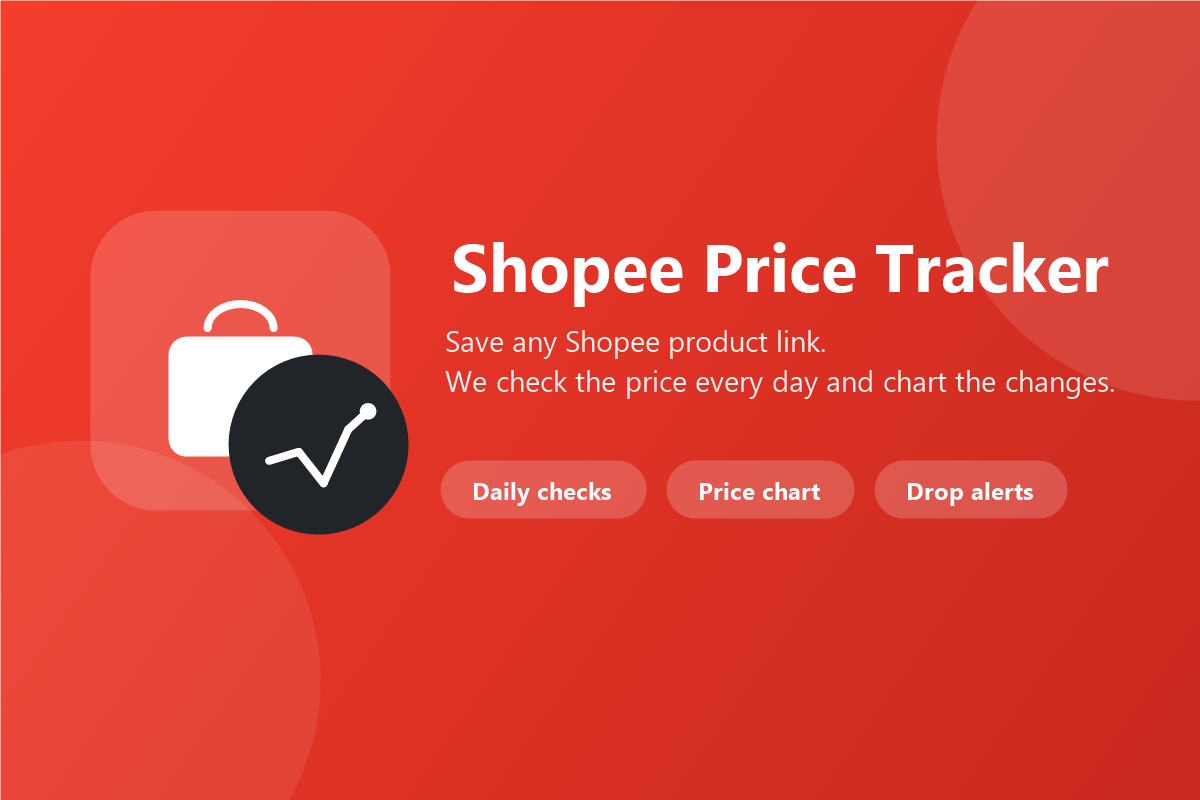
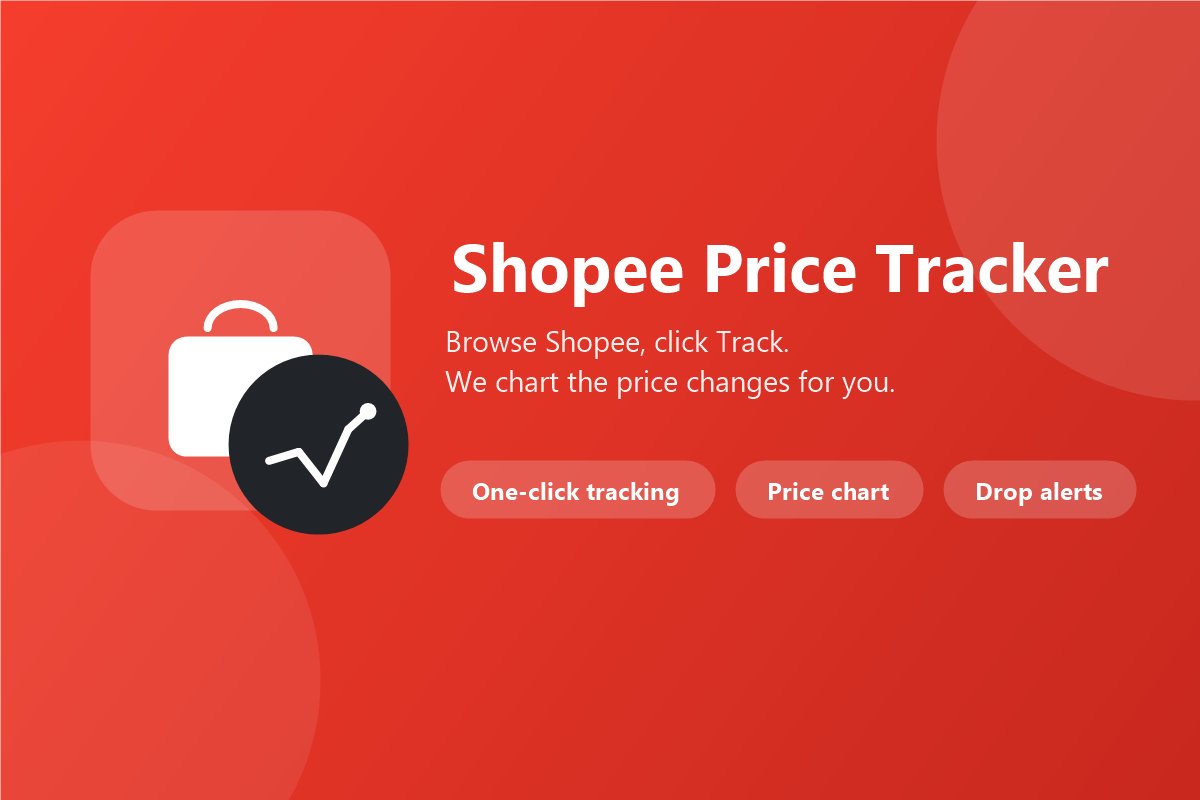
Add passive content-script price capture, the reliable path
Testing confirmed even a fully-focused, extension-opened tab still
gets blocked by Shopee's anti-bot check, while manual browsing to the
same link never does — pointing to behavioral bot detection that a
well-behaved extension shouldn't try to spoof. So instead of fetching
anything ourselves, content.js now reads the price already rendered
on a Shopee product page the user navigates to themselves (via
JSON-LD, then microdata, then visible ₫-text as fallbacks) and shows
a small "Track this price" button — no network request of our own.
Already-tracked products update silently on every visit.

The paste-a-link Add flow and daily background alarm check remain as
a best-effort fallback (background.js's fetchShopeeItem), documented
as unreliable. Verified the full pipeline (content script extraction
-> background storage -> popup rendering) against a mocked Shopee
page via Playwright route interception, since the real site blocks
this automated test environment regardless of technique.

Changed region(s): [[0.4008, 0.5625, 0.9558, 0.6562], [0.37, 0.4062, 0.925, 0.5]]

diff --git a/shopee-price-tracker/content.js b/shopee-price-tracker/content.js
@@ -1,0 +1,151 @@
+// Runs on shopee.vn pages. Every automated way we tried of fetching a price
+// ourselves (background fetch, hidden tab, minimized window, visible
+// unfocused window, even a fully-focused extension-opened tab) got blocked
+// by Shopee's anti-bot check — only a page the user genuinely navigated to
+// themselves gets through. So instead of fetching anything, this reads the
+// price that's already rendered on a product page you're actually looking
+// at, and offers a small button to start tracking it. No network requests
+// of our own — just reading the page, exactly like you would with your eyes.
+(() => {
+  function extractShopeeIds(href) {
+    let url;
+    try { url = new URL(href); } catch { return null; }
+    if (!/(^|\.)shopee\.vn$/.test(url.hostname)) return null;
+    let m = url.pathname.match(/-i\.(\d+)\.(\d+)(?:$|\/)/);
+    if (m) return { shopid: m[1], itemid: m[2] };
+    m = url.pathname.match(/\/product\/(\d+)\/(\d+)/);
+    if (m) return { shopid: m[1], itemid: m[2] };
+    return null;
+  }
+
+  const ids = extractShopeeIds(location.href);
+  if (!ids) return;
+
+  function readJsonLd() {
+    for (const script of document.querySelectorAll('script[type="application/ld+json"]')) {
+      let data;
+      try { data = JSON.parse(script.textContent); } catch { continue; }
+      for (const item of Array.isArray(data) ? data : [data]) {
+        if (!item || item['@type'] !== 'Product' || !item.offers) continue;
+        const offers = Array.isArray(item.offers) ? item.offers[0] : item.offers;
+        const price = Number(offers?.price ?? offers?.lowPrice);
+        if (item.name && price > 0) {
+          return {
+            name: item.name,
+            image: Array.isArray(item.image) ? item.image[0] : item.image,
+            price,
+            currency: offers?.priceCurrency || 'VND'
+          };
+        }
+      }
+    }
+    return null;
+  }
+
+  function readMicrodata() {
+    const scope = document.querySelector('[itemscope][itemtype*="schema.org/Product"]');
+    if (!scope) return null;
+    const nameEl = scope.querySelector('[itemprop="name"]');
+    const priceEl = scope.querySelector('[itemprop="price"]');
+    const imageEl = scope.querySelector('[itemprop="image"]');
+    const currencyEl = scope.querySelector('[itemprop="priceCurrency"]');
+    const price = priceEl ? Number(priceEl.getAttribute('content') || priceEl.textContent) : NaN;
+    const name = (nameEl?.getAttribute('content') || nameEl?.textContent || '').trim();
+    if (name && price > 0) {
+      return {
+        name,
+        image: imageEl?.getAttribute('content') || imageEl?.src || null,
+        price,
+        currency: currencyEl?.getAttribute('content') || currencyEl?.textContent || 'VND'
+      };
+    }
+    return null;
+  }
+
+  function readOgAndVisiblePrice() {
+    const ogTitle = document.querySelector('meta[property="og:title"]')?.content;
+    const ogImage = document.querySelector('meta[property="og:image"]')?.content;
+    if (!ogTitle) return null;
+
+    const priceRegex = /(?:₫\s?[\d.,]+|[\d.,]+\s?₫)/;
+    const walker = document.createTreeWalker(document.body, NodeFilter.SHOW_TEXT);
+    let node;
+    while ((node = walker.nextNode())) {
+      const text = node.textContent.trim();
+      if (!text || text.length > 40 || !priceRegex.test(text)) continue;
+      const raw = text.replace(/[₫\s]/g, '').replace(/\./g, '').replace(/,/g, '');
+      const price = Number(raw);
+      if (price > 0) return { name: ogTitle, image: ogImage || null, price, currency: 'VND' };
+    }
+    return null;
+  }
+
+  function extractProductInfo() {
+    return readJsonLd() || readMicrodata() || readOgAndVisiblePrice();
+  }
+
+  let badgeHost = null;
+
+  function ensureBadge() {
+    if (badgeHost) return badgeHost;
+    badgeHost = document.createElement('div');
+    badgeHost.id = '__shopee_price_tracker_badge__';
+    document.documentElement.appendChild(badgeHost);
+    return badgeHost;
+  }
+
+  function renderBadge(tracked, payload) {
+    const host = ensureBadge();
+    host.innerHTML = '';
+    const btn = document.createElement('button');
+    btn.id = '__shopee_price_tracker_btn__';
+
+    if (tracked) {
+      btn.textContent = '★ Price tracked';
+      btn.title = 'Open price history';
+      btn.addEventListener('click', () => {
+        chrome.runtime.sendMessage({ type: 'OPEN_PRODUCT_TAB', shopid: ids.shopid, itemid: ids.itemid });
+      });
+    } else {
+      btn.textContent = '☆ Track this price';
+      btn.title = "Start tracking this product's price";
+      btn.addEventListener('click', () => {
+        btn.disabled = true;
+        btn.textContent = 'Adding…';
+        chrome.runtime.sendMessage({ type: 'ADD_FROM_PAGE', info: payload }, res => {
+          if (res?.ok) renderBadge(true, payload);
+          else {
+            btn.disabled = false;
+            btn.textContent = '☆ Track this price';
+          }
+        });
+      });
+    }
+    host.appendChild(btn);
+  }
+
+  async function run() {
+    let info = null;
+    for (let i = 0; i < 10 && !info; i++) {
+      info = extractProductInfo();
+      if (!info) await new Promise(r => setTimeout(r, 500));
+    }
+    if (!info) return; // couldn't confidently read a price — stay silent, don't disrupt the page
+
+    const payload = {
+      shopid: ids.shopid,
+      itemid: ids.itemid,
+      link: location.href.split('?')[0],
+      name: info.name,
+      image: info.image,
+      price: info.price,
+      currency: info.currency
+    };
+
+    chrome.runtime.sendMessage({ type: 'PAGE_PRODUCT_SEEN', info: payload }, res => {
+      renderBadge(!!res?.tracked, payload);
+    });
+  }
+
+  run();
+})();

diff --git a/shopee-price-tracker/background.js b/shopee-price-tracker/background.js
@@ -177,6 +177,63 @@ async function clearDropFlag(id) {
   }
 }
 
+// --- passive content-script capture --------------------------------------
+//
+// content.js reads whatever price is already rendered on a Shopee product
+// page the user genuinely navigated to themselves — no fetch of our own,
+// so nothing here for Shopee's anti-bot check to catch. This is the
+// reliable path; fetchShopeeItem() above is the best-effort automated one.
+
+async function recordPageObservation(info, createIfMissing) {
+  const id = productKey(info.shopid, info.itemid);
+  const products = await getProducts();
+  const idx = products.findIndex(p => p.id === id);
+  const now = Date.now();
+
+  if (idx === -1) {
+    if (!createIfMissing) return { tracked: false, product: null };
+    const product = {
+      id,
+      shopid: info.shopid,
+      itemid: info.itemid,
+      link: info.link,
+      name: info.name,
+      image: info.image || null,
+      currency: info.currency || 'VND',
+      currentPrice: info.price,
+      priceBeforeDiscount: null,
+      stock: null,
+      itemStatus: null,
+      addedAt: now,
+      lastCheckedAt: now,
+      lastError: null,
+      hasNewDrop: false,
+      history: pushHistoryPoint([], info.price, now)
+    };
+    products.push(product);
+    await saveProducts(products);
+    return { tracked: true, product };
+  }
+
+  const previous = products[idx];
+  const dropped = typeof previous.currentPrice === 'number' && typeof info.price === 'number' && info.price < previous.currentPrice;
+  const updated = {
+    ...previous,
+    name: info.name || previous.name,
+    image: info.image || previous.image,
+    currentPrice: info.price,
+    lastCheckedAt: now,
+    lastError: null,
+    hasNewDrop: previous.hasNewDrop || dropped,
+    history: pushHistoryPoint(previous.history, info.price, now)
+  };
+  products[idx] = updated;
+  await saveProducts(products);
+  await updateBadge(products);
+  if (dropped) notifyDrops([updated]);
+  return { tracked: true, product: updated };
+}
+
 // --- checking -----------------------------------------------------------
 
 async function checkOneProduct(product, foreground = false) {
@@ -301,6 +358,22 @@ chrome.runtime.onMessage.addListener((message, _sender, sendResponse) => {
       }
       case 'CLEAR_DROP_FLAG': {
         await clearDropFlag(message.id);
+        sendResponse({ ok: true });
+        break;
+      }
+      case 'PAGE_PRODUCT_SEEN': {
+        const result = await recordPageObservation(message.info, false);
+        sendResponse({ ok: true, tracked: result.tracked });
+        break;
+      }
+      case 'ADD_FROM_PAGE': {
+        const result = await recordPageObservation(message.info, true);
+        sendResponse({ ok: true, product: result.product });
+        break;
+      }
+      case 'OPEN_PRODUCT_TAB': {
+        const id = productKey(message.shopid, message.itemid);
+        chrome.tabs.create({ url: chrome.runtime.getURL(`product.html?id=${encodeURIComponent(id)}`) });
         sendResponse({ ok: true });
         break;
       }

diff --git a/shopee-price-tracker/popup.html b/shopee-price-tracker/popup.html
@@ -15,11 +15,12 @@
   </header>
 
   <main>
+    <p class="hint hint-primary">Best way to add a product: just browse to it on Shopee — a "☆ Track this price" button appears on the page.</p>
     <form id="addForm" class="add-row">
-      <input id="linkInput" type="url" placeholder="Paste a Shopee product link…" required>
+      <input id="linkInput" type="url" placeholder="…or paste a Shopee product link" required>
       <button id="addBtn" class="primary" type="submit">Add</button>
     </form>
-    <p class="hint">Adding a product briefly opens its Shopee page in a new tab to read the price, then closes it.</p>
+    <p class="hint">This tries an automated fetch, which Shopee's anti-bot check may block — the button on the product page is more reliable.</p>
 
     <div class="list-hdr">
       <strong id="countLabel">0 products</strong>

diff --git a/shopee-price-tracker/content.css b/shopee-price-tracker/content.css
@@ -1,0 +1,26 @@
+#__shopee_price_tracker_badge__ {
+  all: initial;
+  position: fixed;
+  right: 16px;
+  bottom: 16px;
+  z-index: 2147483647;
+}
+
+#__shopee_price_tracker_btn__ {
+  display: flex;
+  align-items: center;
+  gap: 6px;
+  padding: 10px 16px;
+  border-radius: 999px;
+  border: none;
+  background: #ee4d2d;
+  color: #ffffff;
+  font-family: -apple-system, "Segoe UI", Roboto, Arial, sans-serif;
+  font-size: 13px;
+  font-weight: 600;
+  cursor: pointer;
+  box-shadow: 0 4px 14px rgba(0, 0, 0, 0.25);
+}
+
+#__shopee_price_tracker_btn__:hover { filter: brightness(1.05); }
+#__shopee_price_tracker_btn__:disabled { opacity: 0.7; cursor: default; }

diff --git a/shopee-price-tracker/popup.css b/shopee-price-tracker/popup.css
@@ -57,6 +57,7 @@ main { padding: 14px 16px 16px; }
   min-width: 0;
 }
 .hint { color: var(--muted); font-size: 11px; margin: 6px 0 0; line-height: 1.4; }
+.hint-primary { margin: 0 0 8px; }
 
 button {
   padding: 7px 12px;

diff --git a/shopee-price-tracker/README.md b/shopee-price-tracker/README.md
@@ -1,44 +1,51 @@
 # Shopee Price Tracker
 
-A Chrome extension that saves [Shopee](https://shopee.vn) product links and checks their price once a day, so you can see how a price has moved before you buy.
+A Chrome extension that tracks the price of [Shopee](https://shopee.vn) products you're interested in, so you can see how a price has moved before you buy.
 
 ## Features
 
-- Paste a Shopee product link on the "Add product" page (opened from the popup) to start tracking it — the extension reads the current name, image and price right away.
-- Runs a background check once a day (`chrome.alarms`) and records one price point per day, plus a "Check now" button for an on-demand refresh (all products from the popup, or a single one from its detail page).
-- Click any saved product to open its detail page: price, product image, a price-history line chart (drawn on `<canvas>`, no charting library), and a day-by-day log of price changes.
+- Browse to a Shopee product page and a small "☆ Track this price" button appears in the corner — click it to start tracking, no copy/paste needed.
+- Every time you're on a tracked product's page, its price is automatically refreshed from what's already on screen.
+- Click any saved product (from the popup) to open its detail page: price, product image, a price-history line chart (drawn on `<canvas>`, no charting library), and a day-by-day log of price changes.
 - Chrome notification when a tracked product's price drops, linking straight to that product's chart. Toolbar badge shows how many products have an unseen drop.
 - Remove a product any time from the popup list.
+- A "paste a link" fallback (Add, in the popup) and a best-effort daily background check also exist, but are less reliable — see "How it works".
 
 ## How it works
 
-- Shopee product pages embed a `shopid` and `itemid` in their URL (either `.../product-name-i.{shopid}.{itemid}` or `.../product/{shopid}/{itemid}`). The extension parses these out of the pasted link.
-- To fetch a price, it opens the actual product page in a tab and calls Shopee's own item endpoint (`/api/v4/item/get?itemid=..&shopid=..`) from *inside* that page's own JavaScript context, then closes the tab — rather than fetching it directly, which Shopee's anti-bot check reliably blocks (redirects to `shopee.vn/verify/traffic/error`) even with cookies attached, since it doesn't look like organic browsing.
-- Testing narrowed this down further: a hidden background tab, a minimized window, and even a visible-but-unfocused window all still got blocked the same way — only a genuinely focused tab (indistinguishable from clicking a link yourself) got through reliably. Because giving a tab real focus switches Chrome's active tab and that closes the small toolbar popup instantly, adding a product happens on its own full page (`add.html`, opened in a new tab from the popup) instead of inside the popup — a real page survives the focus switch, so the check can safely use a fully-focused tab. The same applies to "Check price now" on the product detail page. Bulk/background checks (the daily alarm, and "Check now" on the full list in the popup) can't safely steal focus like that without being disruptive, so they stay backgrounded and are best-effort only — they may get blocked more often than the two focused flows.
+Shopee has an aggressive anti-bot check, and testing during development ruled out every automated way of fetching a price ourselves: a direct `fetch()` from the background service worker, opening the product page in a hidden tab, a minimized window, a visible-but-unfocused window, and even a fully-focused tab opened by the extension (indistinguishable, to the eye, from clicking a link) — every one of those got blocked (redirected to `shopee.vn/verify/traffic/error`), while manually pasting the exact same link into a tab yourself always worked. That pattern points to behavioral bot detection (Shopee's cookies include what looks like a behavioral-analytics SDK) noticing that an extension-opened tab has no human interaction history leading up to it — something a well-behaved extension shouldn't try to fake.
+
+So the reliable mechanism here is passive, not automated:
+
+- A content script (`content.js`) runs on Shopee product pages **you** navigate to yourself. It reads the price already rendered on the page — via `Product` JSON-LD structured data first, then `itemprop` microdata, then (as a last resort) the visible ₫-formatted price text — and does not make any network request of its own.
+- If that product is already tracked, its price/history updates automatically and silently. If not, the "☆ Track this price" button lets you start tracking it using the price already on screen.
+- Shopee product pages embed a `shopid` and `itemid` in their URL (either `.../product-name-i.{shopid}.{itemid}` or `.../product/{shopid}/{itemid}`), which is how a page is matched to a saved product.
+- The popup's "Add" (paste a link) and the daily `chrome.alarms` background check still exist and use the automated tab-based approach (see `background.js`'s `fetchShopeeItem`), but per the above, Shopee may block them — they're best-effort, not the primary path.
 - Only `https://shopee.vn/*` host permission is requested. No other network calls are made, and no library dependencies are used, so there's nothing that could leak your data.
 
 ## Known limitations
 
 - Only `shopee.vn` (Vietnam) links are supported.
-- Shortened/share links (`shp.ee/...`) aren't resolved — paste the full product page URL instead.
-- If a product is removed, banned, or Shopee changes its API response shape, that product's check will show an error message instead of a price until it's fixed.
-- History is recorded once per calendar day; running "Check now" multiple times in the same day updates that day's point rather than adding a new one.
-- **Shopee's anti-bot check.** Even the focused-tab approach isn't guaranteed — Shopee's anti-bot system is aggressive and can still block a check, showing "Shopee blocked this request (anti-bot check)". Being logged into Shopee in the same browser is worth doing but did not resolve it in testing on its own; the daily automatic background check in particular is best-effort and may fail more often than a manual Add/Check.
+- A product's price only updates when you're actually on its page — there's no guaranteed daily refresh. The background alarm attempts one anyway, but may get blocked by Shopee's anti-bot check.
+- The on-page price reading depends on Shopee including recognizable structured data (JSON-LD/microdata) or a plain ₫-formatted price in the visible text; if a future Shopee redesign removes all of those, the button won't appear for that page.
+- If a product is removed or banned, its next page visit or automated check will show an error instead of a price.
+- History is recorded once per calendar day; multiple visits/checks on the same day update that day's point rather than adding a new one.
 
 ## Install (unpacked)
 
 1. Go to `chrome://extensions`.
 2. Enable "Developer mode" (top right).
 3. Click "Load unpacked" and select this `shopee-price-tracker` folder.
-4. Click the extension icon, paste a Shopee product link, and hit "Add" — a new tab opens and briefly shows the real Shopee page while it reads the price, then reports back.
+4. Browse to any Shopee product page and click "☆ Track this price" in the bottom-right corner.
 
 ## File map
 
-- `manifest.json` — MV3 manifest (permissions: storage, alarms, notifications, scripting, tabs; host permission: shopee.vn).
-- `background.js` — alarm scheduling, Shopee API calls, price-history updates, notifications, message handling.
+- `manifest.json` — MV3 manifest (permissions: storage, alarms, notifications, scripting, tabs; host permission: shopee.vn; content script on shopee.vn).
+- `content.js`/`content.css` — reads the price off a Shopee product page you're viewing and shows the track/tracked button.
+- `background.js` — passive-observation storage updates, best-effort automated checks, alarm scheduling, notifications, message handling.
 - `common.js` — URL parsing, price formatting, date helpers, history helpers.
 - `storage.js` — `chrome.storage.local` read/write helpers.
-- `popup.html/js/css` — saved-product list with current price and last change; hands off to `add.html` to add a new one.
-- `add.html/js/css` — full-page "adding a product" flow (needs to be a real page, not the popup, so it can use a focused tab — see "How it works").
+- `popup.html/js/css` — saved-product list with current price and last change; the paste-a-link fallback.
+- `add.html/js/css` — full-page "adding a product" flow for the paste-a-link fallback (needs to be a real page, not the popup, so the fetch attempt can use a focused tab — see "How it works").
 - `product.html/js/css` — single-product detail page: price, canvas price-history chart, and a change log table.
 - `icons/`, `store/banner-1200x800.png` — generated via `scripts/make-icons.ps1` and `scripts/make-banner.ps1`.
